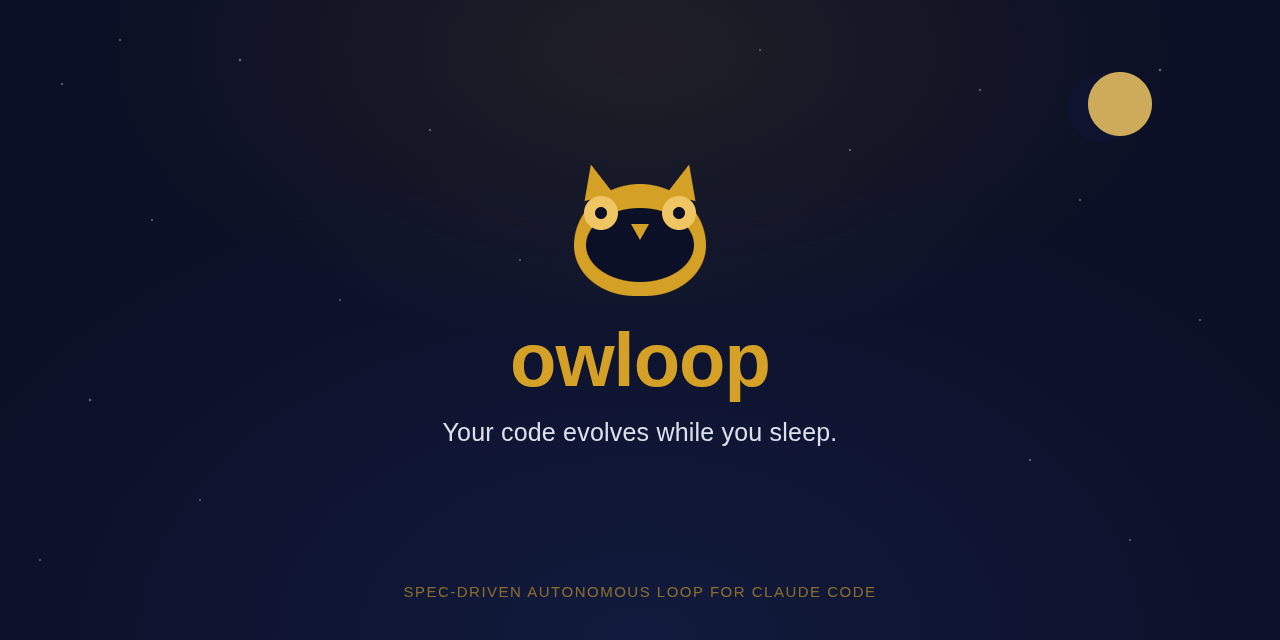
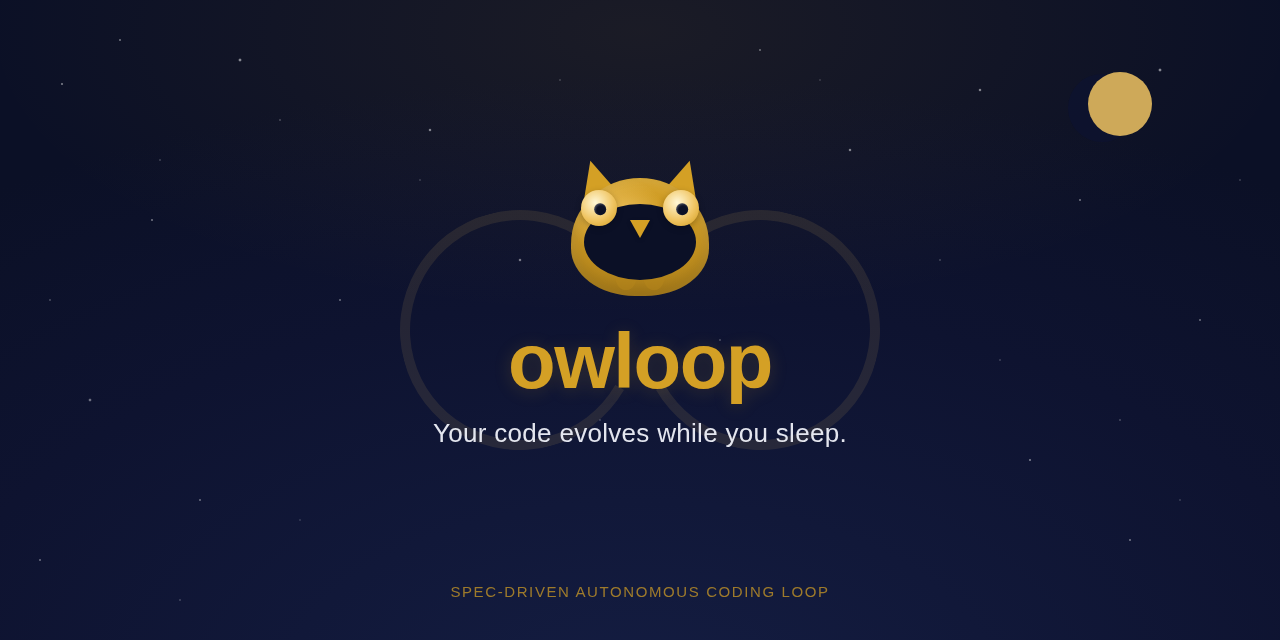
assets: refresh social preview design and copy

diff --git a/.github/social-preview.html b/.github/social-preview.html
@@ -7,8 +7,10 @@
   :root {
     --amber: #d4a025;
     --amber-soft: #f0c563;
+    --amber-deep: #b5851b;
     --night: #0b1026;
     --night-2: #0e1330;
+    --night-3: #121a3d;
   }
 
   * { margin: 0; padding: 0; box-sizing: border-box; }
@@ -26,11 +28,42 @@
     width: 1280px;
     height: 640px;
     background:
-      radial-gradient(ellipse 900px 500px at 50% 8%, rgba(212,160,37,0.10), transparent 60%),
-      radial-gradient(ellipse 1400px 900px at 50% 100%, #121a3d 0%, var(--night) 55%);
+      radial-gradient(ellipse 1200px 520px at 50% 5%, rgba(212,160,37,0.08), transparent 55%),
+      radial-gradient(ellipse 1600px 900px at 50% 110%, #141d42 0%, var(--night-2) 45%, var(--night) 70%);
     display: flex;
     align-items: center;
     justify-content: center;
+  }
+
+  /* Faint infinity loop watermark */
+  .loop-mark {
+    position: absolute;
+    top: 50%;
+    left: 50%;
+    width: 480px;
+    height: 220px;
+    transform: translate(-50%, -50%);
+    opacity: 0.10;
+    pointer-events: none;
+  }
+  .loop-mark::before,
+  .loop-mark::after {
+    content: "";
+    position: absolute;
+    width: 220px;
+    height: 220px;
+    border: 10px solid var(--amber-soft);
+    border-radius: 50%;
+  }
+  .loop-mark::before {
+    left: 0;
+    border-right-color: transparent;
+    transform: rotate(-15deg);
+  }
+  .loop-mark::after {
+    right: 0;
+    border-left-color: transparent;
+    transform: rotate(15deg);
   }
 
   /* stars */
@@ -59,7 +92,52 @@
       radial-gradient(1.6px 1.6px at 850px 150px, #fff, transparent),
       radial-gradient(1.3px 1.3px at 40px 560px, #fff, transparent),
       radial-gradient(1.4px 1.4px at 120px 40px, #fff, transparent);
+    opacity: 0.65;
+  }
+  .stars::before {
+    content: "";
+    background-image:
+      radial-gradient(1.4px 1.4px at 280px 120px, #fff, transparent),
+      radial-gradient(1.2px 1.2px at 560px 80px, #fff, transparent),
+      radial-gradient(1.5px 1.5px at 720px 340px, #fff, transparent),
+      radial-gradient(1.3px 1.3px at 940px 260px, #fff, transparent),
+      radial-gradient(1.4px 1.4px at 1120px 420px, #fff, transparent),
+      radial-gradient(1.2px 1.2px at 1240px 180px, #fff, transparent),
+      radial-gradient(1.5px 1.5px at 50px 300px, #fff, transparent),
+      radial-gradient(1.3px 1.3px at 180px 600px, #fff, transparent);
     opacity: 0.55;
+  }
+  .stars::after {
+    content: "";
+    background-image:
+      radial-gradient(1.3px 1.3px at 420px 180px, #fff, transparent),
+      radial-gradient(1.5px 1.5px at 600px 420px, #fff, transparent),
+      radial-gradient(1.2px 1.2px at 820px 80px, #fff, transparent),
+      radial-gradient(1.4px 1.4px at 1000px 360px, #fff, transparent),
+      radial-gradient(1.3px 1.3px at 1180px 500px, #fff, transparent),
+      radial-gradient(1.5px 1.5px at 160px 160px, #fff, transparent),
+      radial-gradient(1.2px 1.2px at 300px 520px, #fff, transparent);
+    opacity: 0.45;
+  }
+
+  /* subtle twinkle */
+  .twinkle {
+    position: absolute;
+    inset: 0;
+    background-repeat: no-repeat;
+    background-image:
+      radial-gradient(2px 2px at 240px 60px, #fff, transparent),
+      radial-gradient(2px 2px at 980px 90px, #fff, transparent),
+      radial-gradient(2px 2px at 520px 260px, #fff, transparent),
+      radial-gradient(2px 2px at 1160px 70px, #fff, transparent),
+      radial-gradient(2px 2px at 850px 150px, #fff, transparent),
+      radial-gradient(2px 2px at 430px 130px, #fff, transparent);
+    animation: twinkle 3s ease-in-out infinite alternate;
+    pointer-events: none;
+  }
+  @keyframes twinkle {
+    0% { opacity: 0.25; }
+    100% { opacity: 0.85; }
   }
 
   /* crescent moon accent, upper right */
@@ -81,46 +159,73 @@
     display: flex;
     flex-direction: column;
     align-items: center;
-    gap: 20px;
-    transform: translateY(-8px);
+    gap: 18px;
+    transform: translateY(-10px);
+    z-index: 2;
   }
 
   /* ---- CSS owl ---- */
   .owl {
-    width: 132px;
-    height: 118px;
+    width: 138px;
+    height: 124px;
     position: relative;
-    margin-bottom: 6px;
+    margin-bottom: 8px;
   }
   .owl .ear {
     position: absolute;
-    top: -14px;
+    top: -12px;
     width: 0;
     height: 0;
-    border-left: 15px solid transparent;
-    border-right: 15px solid transparent;
+    border-left: 16px solid transparent;
+    border-right: 16px solid transparent;
     border-bottom: 34px solid var(--amber);
   }
-  .owl .ear.left { left: 6px; transform: rotate(-14deg); }
-  .owl .ear.right { right: 6px; transform: rotate(14deg); }
+  .owl .ear.left { left: 8px; transform: rotate(-16deg); }
+  .owl .ear.right { right: 8px; transform: rotate(16deg); }
 
   .owl .body {
     position: absolute;
     top: 6px;
     left: 0;
-    width: 132px;
-    height: 112px;
-    background: var(--amber);
-    border-radius: 50% 50% 46% 46% / 55% 55% 45% 45%;
+    width: 138px;
+    height: 118px;
+    background:
+      radial-gradient(ellipse 70% 70% at 35% 35%, var(--amber-soft), transparent 50%),
+      radial-gradient(ellipse 120% 100% at 50% 100%, var(--amber-deep), var(--amber));
+    border-radius: 52% 52% 48% 48% / 58% 58% 42% 42%;
+    box-shadow:
+      inset 0 -10px 18px rgba(0,0,0,0.18),
+      inset 0 6px 14px rgba(255,255,255,0.12);
+  }
+
+  .owl .feathers {
+    position: absolute;
+    bottom: 6px;
+    left: 50%;
+    transform: translateX(-50%);
+    width: 70px;
+    height: 34px;
+    display: flex;
+    justify-content: center;
+    gap: 6px;
+  }
+  .owl .feathers::before,
+  .owl .feathers::after {
+    content: "";
+    width: 22px;
+    height: 34px;
+    background: var(--amber-deep);
+    border-radius: 50% 50% 45% 45%;
+    opacity: 0.55;
   }
 
   .owl .face {
     position: absolute;
-    top: 30px;
+    top: 32px;
     left: 50%;
     transform: translateX(-50%);
-    width: 108px;
-    height: 74px;
+    width: 112px;
+    height: 76px;
     background: var(--night);
     border-radius: 50%;
   }
@@ -128,10 +233,11 @@
   .owl .eye {
     position: absolute;
     top: 18px;
-    width: 34px;
-    height: 34px;
-    background: var(--amber-soft);
+    width: 36px;
+    height: 36px;
+    background: radial-gradient(circle at 40% 35%, #fff7d6, var(--amber-soft) 55%, var(--amber) 95%);
     border-radius: 50%;
+    box-shadow: 0 2px 6px rgba(0,0,0,0.25);
   }
   .owl .eye.left { left: 10px; }
   .owl .eye.right { right: 10px; }
@@ -144,35 +250,38 @@
     height: 12px;
     background: var(--night);
     border-radius: 50%;
-    transform: translate(-50%, -50%);
+    transform: translate(-40%, -40%);
+    box-shadow: inset 1px 1px 2px rgba(255,255,255,0.25);
   }
 
   .owl .beak {
     position: absolute;
-    top: 46px;
+    top: 48px;
     left: 50%;
     transform: translateX(-50%);
     width: 0;
     height: 0;
-    border-left: 9px solid transparent;
-    border-right: 9px solid transparent;
-    border-top: 16px solid var(--amber);
+    border-left: 10px solid transparent;
+    border-right: 10px solid transparent;
+    border-top: 18px solid var(--amber);
+    filter: drop-shadow(0 2px 2px rgba(0,0,0,0.2));
   }
 
   h1.brand {
-    font-size: 76px;
+    font-size: 78px;
     font-weight: 700;
-    letter-spacing: -1px;
+    letter-spacing: -1.5px;
     color: var(--amber);
     line-height: 1;
+    text-shadow: 0 2px 18px rgba(212,160,37,0.18);
   }
 
   p.tagline {
-    font-size: 25px;
+    font-size: 26px;
     font-weight: 400;
-    color: #eef1fb;
-    opacity: 0.92;
-    letter-spacing: 0.2px;
+    color: #f4f6fd;
+    opacity: 0.93;
+    letter-spacing: 0.3px;
   }
 
   p.footer {
@@ -182,23 +291,26 @@
     right: 0;
     text-align: center;
     font-size: 15px;
-    letter-spacing: 1.5px;
+    letter-spacing: 1.6px;
     text-transform: uppercase;
     color: var(--amber);
-    opacity: 0.62;
+    opacity: 0.72;
     font-weight: 500;
   }
 </style>
 </head>
 <body>
   <div class="canvas">
+    <div class="loop-mark"></div>
     <div class="stars"></div>
+    <div class="twinkle"></div>
     <div class="moon"></div>
     <div class="content">
       <div class="owl">
         <div class="ear left"></div>
         <div class="ear right"></div>
         <div class="body"></div>
+        <div class="feathers"></div>
         <div class="face"></div>
         <div class="eye left"></div>
         <div class="eye right"></div>
@@ -207,7 +319,7 @@
       <h1 class="brand">owloop</h1>
       <p class="tagline">Your code evolves while you sleep.</p>
     </div>
-    <p class="footer">Spec-driven autonomous loop for Claude Code</p>
+    <p class="footer">Spec-driven autonomous coding loop</p>
   </div>
 </body>
 </html>